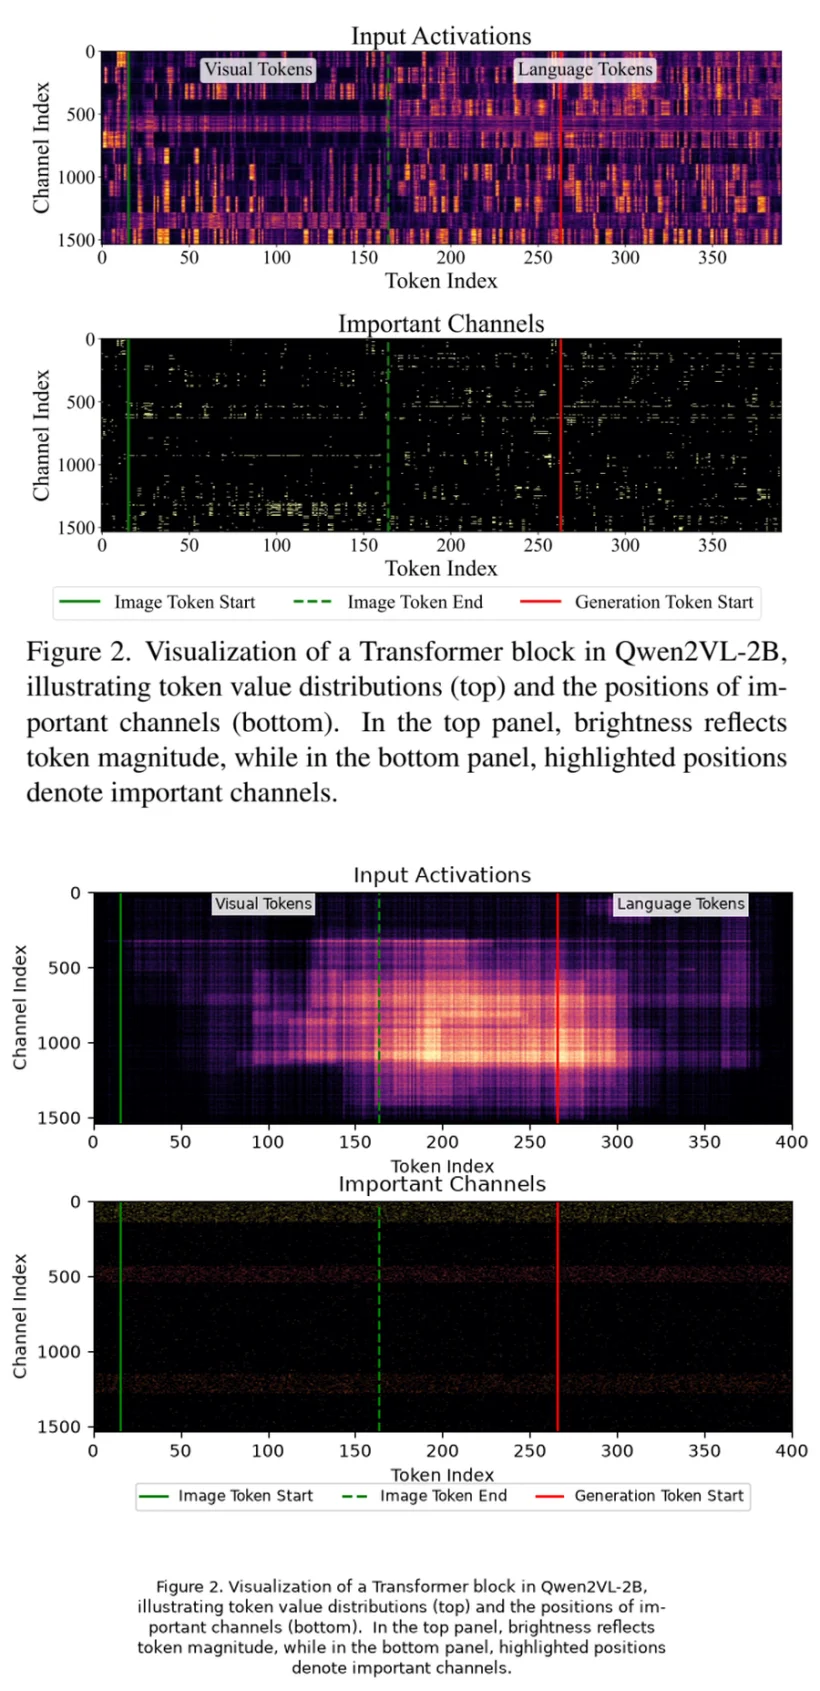
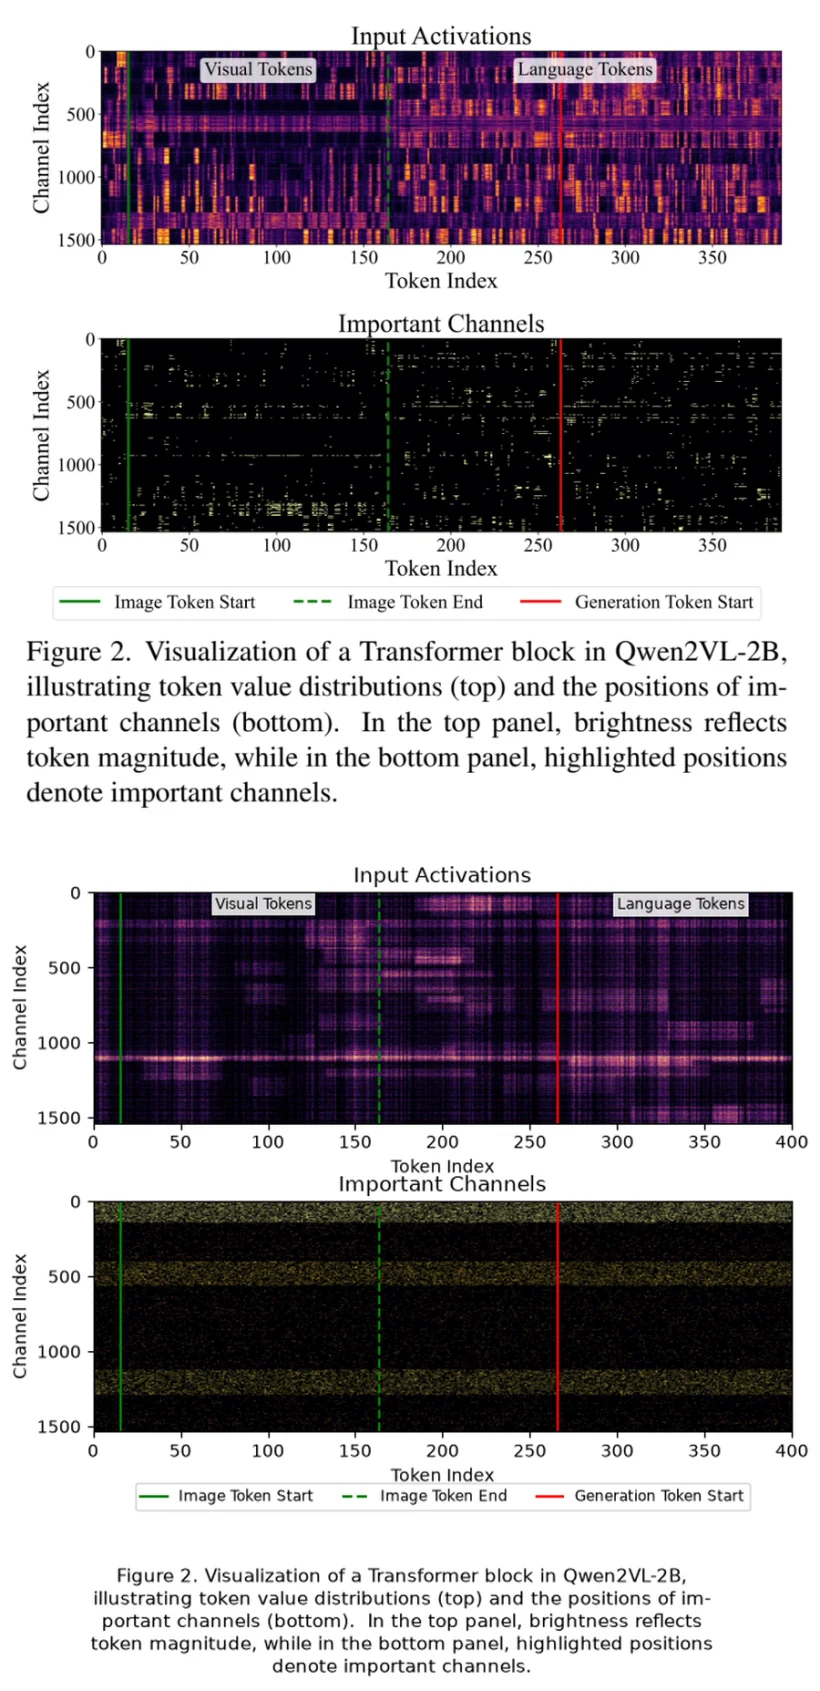
improve(replicas): 第十三轮 —— 09 激活图对比度与密度
- 块分布从「中间一坨」改为全宽均匀铺开（34 个随机块 + 6 条整体高亮列带）
- vmin 40% 分位 → 更深黑底，高光保留到 99.8% 分位
- 下图点密度 0.10→0.22 基底，通道带 0.05-0.12→0.12-0.26
- 新增 token 分段强弱起伏（原图的暗段/亮段竖向节奏）
- caption 字号 9→11（原图 caption 相对更大）

diff --git a/tools/figlab/replicas.py b/tools/figlab/replicas.py
@@ -529,16 +529,28 @@ def fig09():
     # (上) 输入激活：通道基准 × token 调制，再叠"块状"增强（真实激活的局部相关结构）
     ch_base = rng.lognormal(0.0, 0.75, n_ch)
     act = ch_base[:, None] * np.ones((1, n_tok))
-    # 竖向块：随机 (通道段 × token 段) 的矩形增强
-    for _ in range(26):
-        c0, c1 = sorted(rng.choice(n_ch, 2, replace=False))
-        t0, t1 = sorted(rng.choice(n_tok, 2, replace=False))
-        c1 = min(n_ch, c0 + max(8, c1 - c0))
-        t1 = min(n_tok, t0 + max(4, t1 - t0))
-        act[c0:c1, t0:t1] *= rng.uniform(1.8, 4.5)
+    # 竖向块：均匀铺满整幅（原图不是中间一坨，而是全宽分布）
+    for _ in range(34):
+        c0 = int(rng.integers(0, n_ch - 40))
+        t0 = int(rng.integers(0, n_tok - 12))
+        c1 = c0 + int(rng.integers(25, 180))
+        t1 = t0 + int(rng.integers(10, 90))
+        act[c0:c1, t0:t1] *= rng.uniform(1.6, 3.4)
+    # 少量整体高亮列带（对应真实模型里的活跃通道组）
+    for _ in range(6):
+        c0 = int(rng.integers(0, n_ch - 60))
+        act[c0:c0 + int(rng.integers(20, 70)), :] *= rng.uniform(1.8, 2.8)
     # token 方向的细粒度调制（形成原图那种竖向细密条纹）
     tok_fine = rng.gamma(4.0, 0.22, n_tok)
     act *= tok_fine[None, :]
+    # token 分段的强弱起伏（原图有明显的"暗段/亮段"竖向节奏）
+    seg = np.ones(n_tok)
+    pos = 0
+    while pos < n_tok:
+        w = int(rng.integers(6, 26))
+        seg[pos:pos + w] = rng.uniform(0.35, 1.55)
+        pos += w + int(rng.integers(0, 8))
+    act *= seg[None, :]
     # 通道方向的细粒度调制（横向细纹）
     ch_fine = rng.gamma(6.0, 0.16, n_ch)
     act *= ch_fine[:, None]
@@ -555,7 +567,7 @@ def fig09():
     act_disp = np.log1p(act)          # 真实激活图常用 log 归一化
     ax.imshow(act_disp, aspect="auto", cmap="magma", origin="upper",
               extent=[0, n_tok, n_ch, 0],
-              vmin=np.percentile(act_disp, 35), vmax=np.percentile(act_disp, 99.5))
+              vmin=np.percentile(act_disp, 40), vmax=np.percentile(act_disp, 99.8))
     ax.set_title("Input Activations", fontsize=12)
     ax.set_ylabel("Channel Index", fontsize=10)
     ax.set_xlabel("Token Index", fontsize=10)
@@ -568,15 +580,15 @@ def fig09():
 
     # (下) 重要通道：密集亮点 + 通道带聚集（原图是横贯全宽的亮条纹）
     imp = np.zeros((n_ch, n_tok))
-    base_dens = rng.beta(0.45, 9, n_ch) * 0.10      # 每通道基础密度
+    base_dens = rng.beta(0.55, 5.5, n_ch) * 0.22     # 每通道基础密度（更密）
     for ci in range(n_ch):
         if base_dens[ci] > 0.004:
             cols = rng.random(n_tok) < base_dens[ci]
-            imp[ci, cols] = rng.uniform(0.35, 0.95, cols.sum())
+            imp[ci, cols] = rng.uniform(0.45, 1.0, cols.sum())
     # 强调通道带（对应上图高亮区）
-    for lo, hi in [(0, 140), (430, 540), (1150, 1280)]:
-        band = rng.random((hi - lo, n_tok)) < rng.uniform(0.05, 0.12)
-        imp[lo:hi, :] = np.maximum(imp[lo:hi, :], band * rng.uniform(0.5, 1.0))
+    for lo, hi in [(0, 140), (400, 560), (1120, 1290)]:
+        band = rng.random((hi - lo, n_tok)) < rng.uniform(0.12, 0.26)
+        imp[lo:hi, :] = np.maximum(imp[lo:hi, :], band * rng.uniform(0.7, 1.0))
 
     ax = axes[1]
     ax.imshow(imp, aspect="auto", cmap="inferno", origin="upper",
@@ -598,7 +610,7 @@ def fig09():
              "portant channels (bottom).  In the top panel, brightness reflects\n"
              "token magnitude, while in the bottom panel, highlighted positions\n"
              "denote important channels.",
-             ha="center", va="bottom", fontsize=9.0)
+             ha="center", va="bottom", fontsize=11.0)
     fig.subplots_adjust(top=0.95, bottom=0.24, left=0.12, right=0.98, hspace=0.34)
     return _save(fig, "rep-09-activation-heatmap")
 
